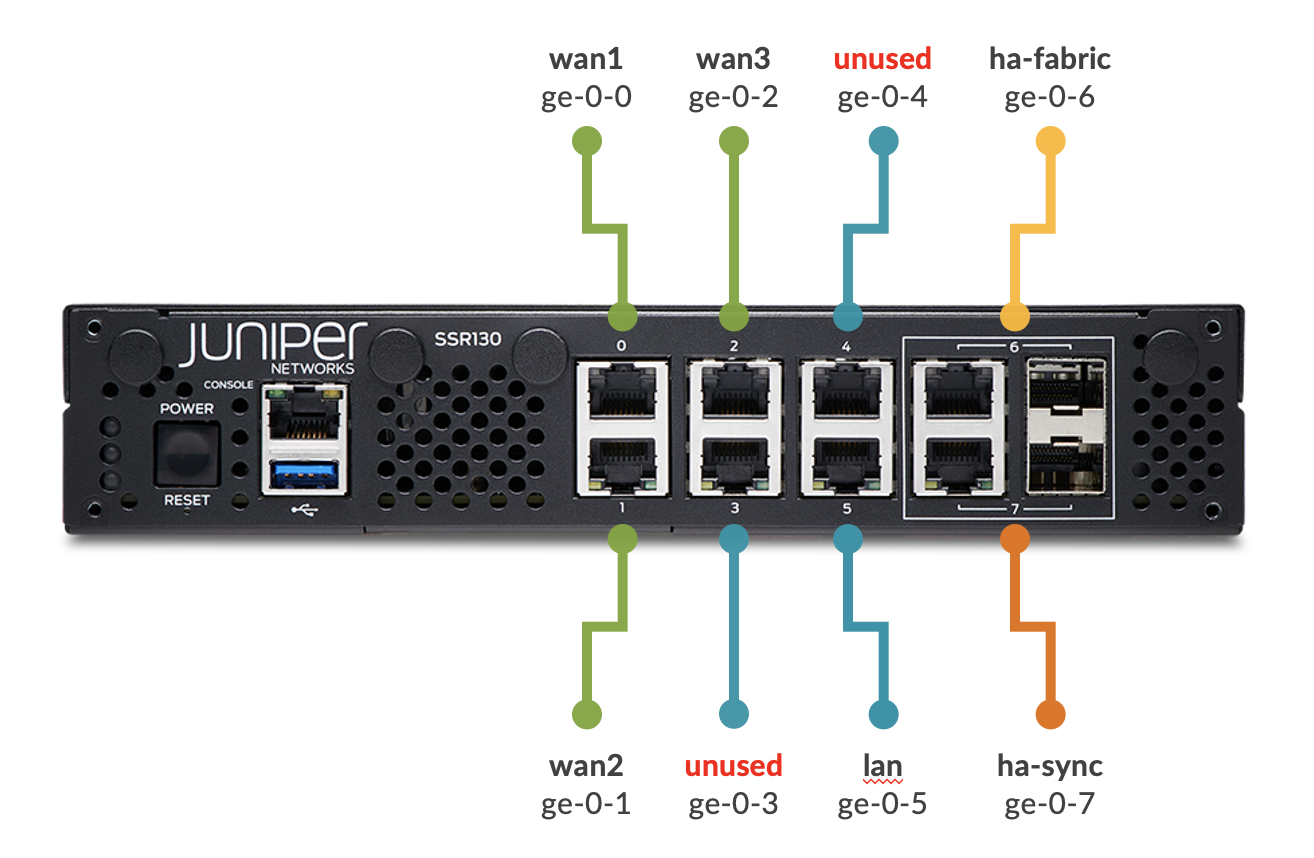
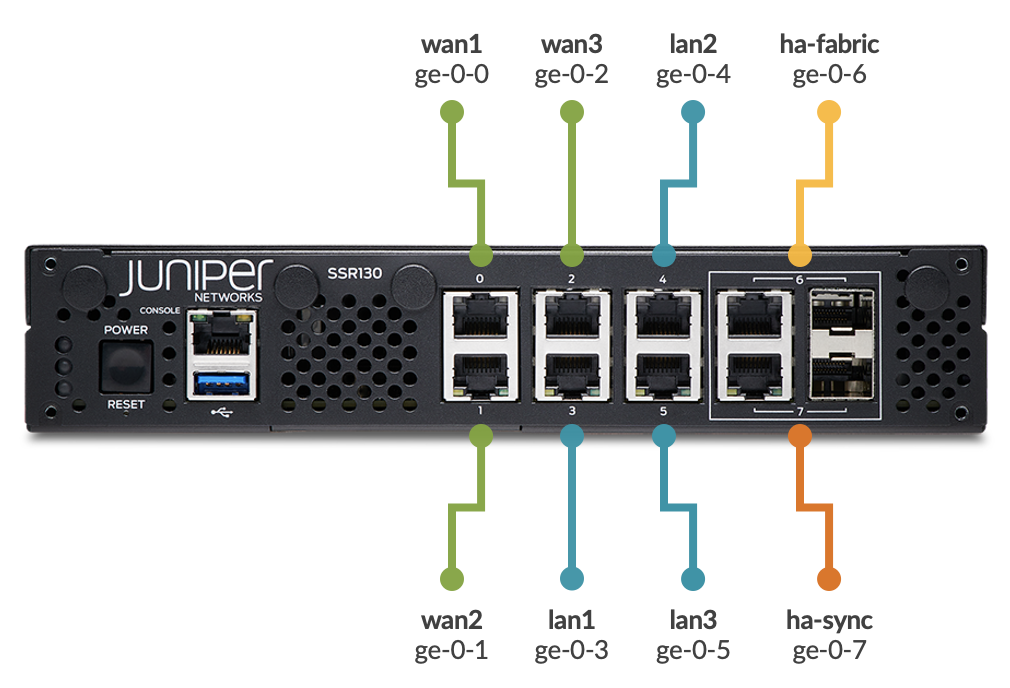
revise port callouts and ssr130 faceplate

diff --git a/docs/_hdwr_ssr130portcnx.md b/docs/_hdwr_ssr130portcnx.md
@@ -9,19 +9,19 @@ The following image of the SSR130 includes Cellular and TAA subvariants.
 | ge-0-0 | Port 0 | WAN 1 network interface | 0000:04:00.3 | 1000 | WAN |
 | ge-0-1 | Port 1 | WAN 2 network interface | 0000:04:00.2 | 1000 | WAN |
 | ge-0-2 | Port 2 | WAN 3 network interface | 0000:04:00.1 | 1000 | WAN |
-| ge-0-3 | Port 3 | Unused | 0000:04:00.0 | 1000 | LAN |
-| ge-0-4 | Port 4 | Unused | 0000:03:00.1 | 1000 | LAN |
-| ge-0-5 | Port 5 | LAN network interface | 0000:03:00.0 | 1000 | LAN |
+| ge-0-3 | Port 3 | LAN 1 network interface | 0000:04:00.0 | 1000 | LAN |
+| ge-0-4 | Port 4 | LAN 2 network interface | 0000:03:00.1 | 1000 | LAN |
+| ge-0-5 | Port 5 | LAN 3 network interface | 0000:03:00.0 | 1000 | LAN |
 | ge-0-6 | Port 6 | HA Fabric network interface | 0000:02:00.1 | 1000 | HA Fabric |
 | ge-0-7 | Port 7 | HA Sync network interface | 0000:02:00.0 | 1000 | HASync |
 
-Your SSR device uses Port 0 (`ge-0-0`) as a default WAN port to contact Mist for zero-touch provisioning (ZTP). You will also be setting up port 5 (`ge-0-5`) with a LAN network.
+Your SSR device uses Port 0 (`ge-0-0`) as a default WAN port to contact Mist for zero-touch provisioning (ZTP). You will also be setting up port 3 (`ge-0-3`) with a LAN network.
 
 1. **Connect port 0** to an Ethernet WAN link capable of providing the device with:
     * DHCP address assignment
     * Connectivity to the Internet and Mist
 
-2. **Connect port 5** to your LAN devices, including:
+2. **Connect port 3** to your LAN devices, including:
     * Mist-managed Juniper EX switches
     * Mist APs
     * User devices

diff --git a/docs/_hdwr_ssr1400portcnx.md b/docs/_hdwr_ssr1400portcnx.md
@@ -10,7 +10,7 @@
 | mgmt-0-0 | MGMT | Management interface | 0000:01:00.0 | 1000 | MGMT |
 | xe-0-0 | Port 0/0 | WAN 1 network interface | 0000:6a:00.0 | 10000 | WAN |
 | xe-0-1 | Port 0/1 | WAN 2 network interface | 0000:6a:00.1 | 10000 | WAN |
-| ge-0-2 | Port 0/2 | WAN 3 network interface | 0000:6a:00.2 | 10000 | WAN |
+| xe-0-2 | Port 0/2 | WAN 3 network interface | 0000:6a:00.2 | 10000 | WAN |
 | xe-0-3 | Port 0/3 | LAN 1 network interface | 0000:6a:00.3 | 10000 | LAN |
 | ge-1-0 | Port 1/0 | HA Sync network interface | 0000:19:00.0 | 1000 | HASync |
 | ge-1-1 | Port 1/1 | LAN 2 network interface | 0000:19:00.1 | 1000 | LAN |
@@ -27,7 +27,7 @@ Your SSR device uses Port 0/0 (`xe-0-0 `) as a default WAN port to contact Mist 
     * DHCP address assignment
     * Connectivity to the Internet and Mist
 
-2. **Connect port 3** to your LAN devices, including:
+2. **Connect port 0/3** to your LAN devices, including:
     * Mist-managed Juniper EX switches
     * Mist APs
     * User devices

diff --git a/docs/wan_assurance_ssr130_quickstart.md b/docs/wan_assurance_ssr130_quickstart.md
@@ -11,13 +11,13 @@ Let's get it set up in the Mist cloud with WAN Assurance.
 
 ![Device Connections](/img/intro_wa_ssr130_quickstart_1.png)
 
-Your SSR device uses port 0 (`ge-0-0`) as a default WAN port to contact Mist for zero-touch provisioning (ZTP). You will also be setting up port 5 (`ge-0-5`) with a LAN network.
+Your SSR device uses port 0 (`ge-0-0`) as a default WAN port to contact Mist for zero-touch provisioning (ZTP). You will also be setting up port 3 (`ge-0-3`) with a LAN network.
 
 1. **Connect port 0** to an Ethernet WAN link capable of providing the device with:
     * DHCP address assignment
     * Connectivity to the Internet and Mist
 
-2. **Connect port 5** to your LAN devices, including:
+2. **Connect port 3** to your LAN devices, including:
     * Mist-managed Juniper EX switches
     * Mist APs
     * User devices

diff --git a/docs/_hdwr_ssr1500portcnx.md b/docs/_hdwr_ssr1500portcnx.md
@@ -31,7 +31,7 @@ Your SSR device uses Port 1/0 (`ge-1-0 `) as a default WAN port to contact Mist 
     * DHCP address assignment
     * Connectivity to the Internet and Mist
 
-2. **Connect port 3** to your LAN devices, including:
+2. **Connect port 2/1** to your LAN devices, including:
     * Mist-managed Juniper EX switches
     * Mist APs
     * User devices
